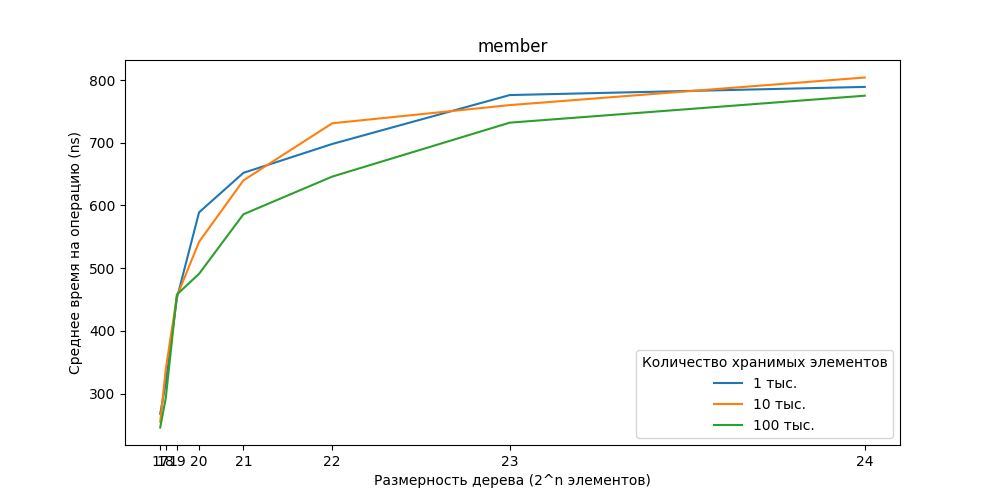
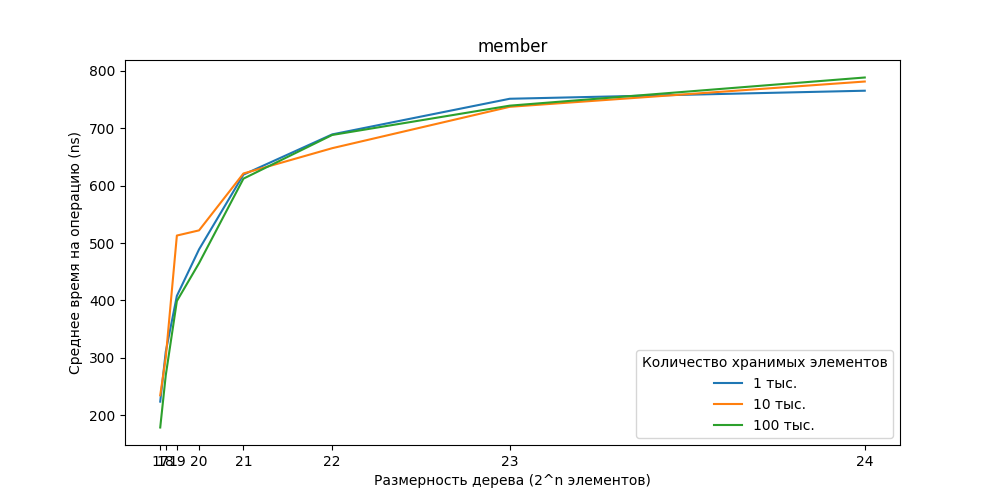
prepare random numbers before time measurement

diff --git a/main.c b/main.c
@@ -3,7 +3,10 @@
 #include <time.h>
 #include "veb.c"
 
-int compareFiles(FILE *f1, FILE *f2)
+#define reads 1000000
+unsigned int random_array[reads];
+
+int compare_files(FILE *f1, FILE *f2)
 {
     fseek(f1, 0, SEEK_SET);
     fseek(f2, 0, SEEK_SET);
@@ -51,31 +54,31 @@ void veb_fill_random(veb* v, unsigned int n) {
     }
 }
 
-double veb_random_member_time(veb* v, unsigned int n) {
+double veb_random_member_time(veb* v, unsigned int* random) {
     time_t start = clock();
-    for (unsigned int i = 0; i < n; i++)
+    for (unsigned int i = 0; i < reads; i++)
     {
-        veb_tree_member(v, rand_int()%v->u);
+        veb_tree_member(v, random[i]%v->u);
     }
-    return ((double)ms_time(start, clock()))/n*1000000;
+    return ((double)ms_time(start, clock()))/reads*1000000;
 }
 
-double veb_random_successor_time(veb* v, unsigned int n) {
+double veb_random_successor_time(veb* v, unsigned int* random) {
     time_t start = clock();
-    for (unsigned int i = 0; i < n; i++)
+    for (unsigned int i = 0; i < reads; i++)
     {
-        veb_tree_successor(v, rand_int()%v->u);
+        veb_tree_successor(v, random[i]%v->u);
     }
-    return ((double)ms_time(start, clock()))/n*1000000;
+    return ((double)ms_time(start, clock()))/reads*1000000;
 }
 
-double veb_random_predecessor_time(veb* v, unsigned int n) {
+double veb_random_predecessor_time(veb* v, unsigned int* random) {
     time_t start = clock();
-    for (unsigned int i = 0; i < n; i++)
+    for (unsigned int i = 0; i < reads; i++)
     {
-        veb_tree_predecessor(v, rand_int()%v->u);
+        veb_tree_predecessor(v, random[i]%v->u);
     }
-    return ((double)ms_time(start, clock()))/n*1000000;
+    return ((double)ms_time(start, clock()))/reads*1000000;
 }
 
 int main(int argc, char const *argv[])
@@ -189,7 +192,7 @@ int main(int argc, char const *argv[])
         FILE* out_file = fopen(out_file_path, "r");
         fclose(result_file);
         result_file = fopen(result_path, "r");
-        int wrong_line = compareFiles(result_file, out_file);
+        int wrong_line = compare_files(result_file, out_file);
 
         fclose(in_file);
         fclose(out_file);
@@ -212,6 +215,13 @@ int main(int argc, char const *argv[])
 
     printf("Performance tests\n");
     time_t start_time, end_time;
+
+    srand(321);
+    for (unsigned int i = 0; i < reads; i++)
+    {
+        random_array[i] = rand_int();
+    }
+
     FILE* perf_file = fopen("perf.txt", "w");
 
     for (int i = 17; i <= 24; i++)
@@ -233,17 +243,17 @@ int main(int argc, char const *argv[])
 
         start_time = clock();
         veb_fill_random(a, 1000);
-        fprintf(perf_file, " %f", veb_random_member_time(a, 1000000));
-        fprintf(perf_file, " %f", veb_random_predecessor_time(a, 1000000));
-        fprintf(perf_file, " %f", veb_random_successor_time(a, 1000000));
+        fprintf(perf_file, " %f", veb_random_member_time(a, random_array));
+        fprintf(perf_file, " %f", veb_random_predecessor_time(a, random_array));
+        fprintf(perf_file, " %f", veb_random_successor_time(a, random_array));
         veb_fill_random(a, 9000);
-        fprintf(perf_file, " %f", veb_random_member_time(a, 1000000));
-        fprintf(perf_file, " %f", veb_random_predecessor_time(a, 1000000));
-        fprintf(perf_file, " %f", veb_random_successor_time(a, 1000000));
+        fprintf(perf_file, " %f", veb_random_member_time(a, random_array));
+        fprintf(perf_file, " %f", veb_random_predecessor_time(a, random_array));
+        fprintf(perf_file, " %f", veb_random_successor_time(a, random_array));
         veb_fill_random(a, 90000);
-        fprintf(perf_file, " %f", veb_random_member_time(a, 1000000));
-        fprintf(perf_file, " %f", veb_random_predecessor_time(a, 1000000));
-        fprintf(perf_file, " %f", veb_random_successor_time(a, 1000000));
+        fprintf(perf_file, " %f", veb_random_member_time(a, random_array));
+        fprintf(perf_file, " %f", veb_random_predecessor_time(a, random_array));
+        fprintf(perf_file, " %f", veb_random_successor_time(a, random_array));
 
         end_time = clock();
         start_time = clock();
